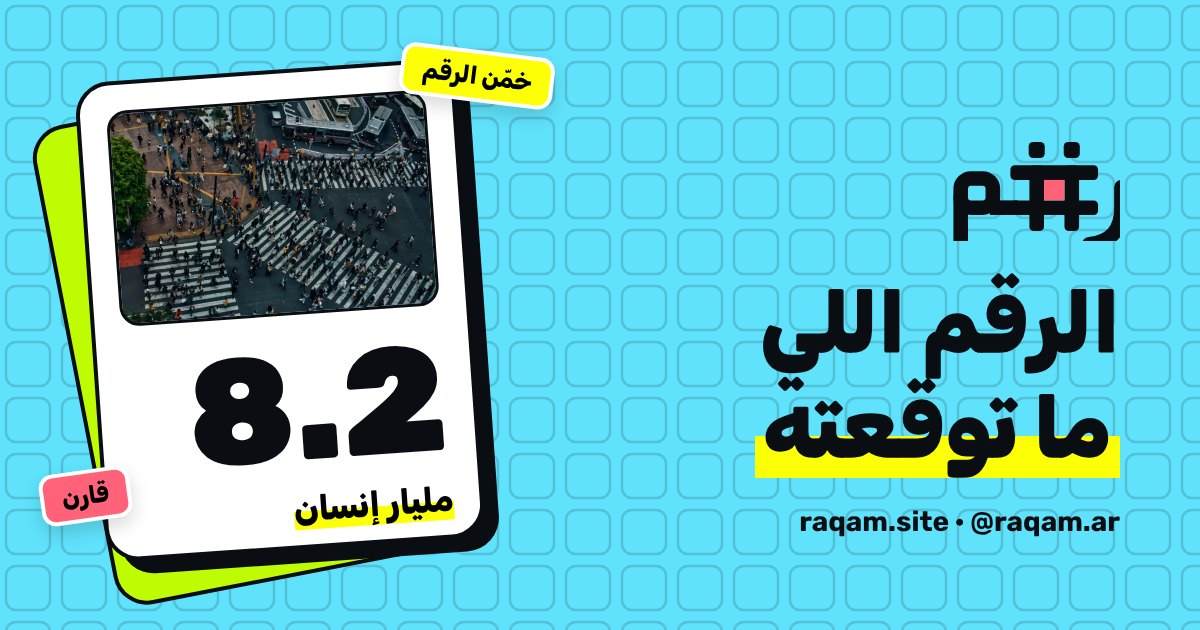
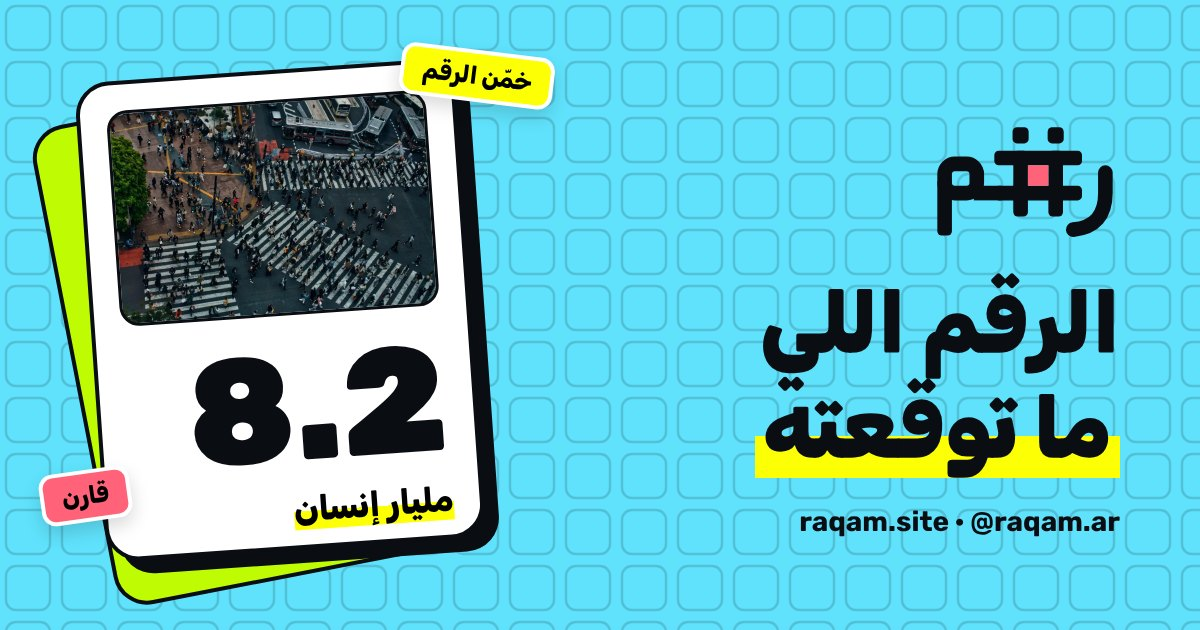
ربط النماذج بـ Google Sheets عبر Apps Script، وإصلاح الشعار في صورة المشاركة
Claude-Session: https://claude.ai/code/session_01Lz4JPrfLoNgMqRWgrp26CB

Changed region(s): [[0.7708, 0.181, 0.9558, 0.3921]]

diff --git a/index.html b/index.html
@@ -596,6 +596,7 @@ button:disabled{opacity:.6;cursor:wait}
         <h3>احجز مساحتك في الرقم الجاي</h3>
         <p>نرد عليك خلال يوم عمل بالتفاصيل والأسعار.</p>
         <form id="adForm" novalidate data-form="ads">
+          <input type="hidden" name="form" value="ads">
           <input class="hp" name="website" tabindex="-1" autocomplete="off" aria-hidden="true">
           <input id="adName" name="company" placeholder="اسم الجهة" aria-label="اسم الجهة" required autocomplete="organization">
           <input id="adEmail" name="email" type="email" placeholder="البريد الإلكتروني" aria-label="البريد الإلكتروني" required autocomplete="email">
@@ -619,6 +620,7 @@ button:disabled{opacity:.6;cursor:wait}
       <h3>أرقام الأسبوع في بريدك كل جمعة</h3>
       <p>خمسة أرقام، دقيقتين قراءة.</p>
       <form id="newsForm" novalidate data-form="news">
+        <input type="hidden" name="form" value="news">
         <input class="hp" name="website" tabindex="-1" autocomplete="off" aria-hidden="true">
         <input id="newsEmail" name="email" type="email" placeholder="بريدك الإلكتروني" aria-label="بريدك الإلكتروني" required autocomplete="email">
         <button class="btn btn-ink" type="submit">اشترك</button>
@@ -801,7 +803,7 @@ function wireForm(form,{endpoint,msgEl,okText,validate}){
     const btn=form.querySelector('button[type=submit]');btn.disabled=true;const label=btn.textContent;btn.textContent='جارٍ الإرسال…';
     fd.delete('website');fd.append('page',location.href);fd.append('sent_at',new Date().toISOString());
     try{
-      await fetch(endpoint,{method:'POST',body:fd,mode:'no-cors'});
+      await fetch(endpoint,{method:'POST',body:new URLSearchParams(fd),mode:'no-cors'});
       setMsg(msgEl,okText,'ok');form.reset();
     }catch(_){setMsg(msgEl,'ما قدرنا نرسل الحين. تأكد من الاتصال وجرّب مرة ثانية.','err');}
     finally{btn.disabled=false;btn.textContent=label;}

diff --git a/config.js b/config.js
@@ -1,6 +1,6 @@
 /* إعدادات موقع «رقم»
-   newsletterEndpoint : رابط استقبال الاشتراكات (من Beehiiv أو غيرها)
-   adsEndpoint        : رابط استقبال طلبات المعلنين (Google Sheets أو Formspree)
+   newsletterEndpoint : رابط استقبال الاشتراكات (حاليًا نفس رابط Google Apps Script)
+   adsEndpoint        : رابط Google Apps Script لجدول «رقم | طلبات الموقع»
    gaId               : معرّف Google Analytics مثل G-XXXXXXX
    اترك أي قيمة فاضية لين تتجهز الخدمة، والموقع يتعامل معها تلقائيًا. */
 window.RAQAM_CONFIG = {
